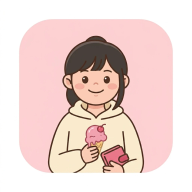
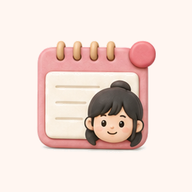
fix: 아이폰 홈 화면과 PWA에 3D 혜니 아이콘을 적용한다

diff --git a/vite.config.ts b/vite.config.ts
@@ -69,7 +69,7 @@ export default defineConfig({
       filename: "sw.ts",
       // 새 Worker는 받되 결제·원격청취·미저장 편집이 끝난 뒤에만 활성화한다.
       registerType: "prompt",
-      includeAssets: ["apple-touch-icon.png", "favicon-32x32.png", "assets/logo.webp"],
+      includeAssets: ["apple-touch-icon-hyeni-3d.png", "apple-touch-icon.png", "favicon-32x32.png", "assets/logo.webp"],
       manifest: {
         name: "혜니캘린더 - 우리아이 일정&안전 한번에",
         short_name: "혜니캘린더",
@@ -105,6 +105,7 @@ export default defineConfig({
           // 아래 파일은 includeAssets/manifest 아이콘 경로가 revision 포함 항목으로 따로 주입한다.
           // glob에서도 다시 수집하면 같은 URL이 두 revision으로 겹쳐 Service Worker 평가가 실패한다.
           "**/apple-touch-icon.png",
+          "**/apple-touch-icon-hyeni-3d.png",
           "**/favicon-32x32.png",
           "**/pwa-192x192.png",
           "**/pwa-512x512.png",

diff --git a/index.html b/index.html
@@ -24,7 +24,7 @@
     <meta name="mobile-web-app-capable" content="yes" />
     <meta name="apple-mobile-web-app-status-bar-style" content="default" />
     <meta name="apple-mobile-web-app-title" content="혜니캘린더 - 우리아이 일정&amp;안전 한번에" />
-    <link rel="apple-touch-icon" href="./apple-touch-icon.png" />
+    <link rel="apple-touch-icon" sizes="180x180" href="./apple-touch-icon-hyeni-3d.png" />
     <link rel="icon" type="image/png" sizes="32x32" href="./favicon-32x32.png" />
     <link rel="icon" href="./favicon-32x32.png" />
     <link rel="preload" as="image" href="/assets/mascot/wave.webp" type="image/webp" fetchpriority="high" />

diff --git a/docs/engineering/operations.md b/docs/engineering/operations.md
@@ -251,3 +251,14 @@
 
 운영 웹을 배포하기 전에 최신 `origin/main`이 현재 소스에 포함됐는지 확인한다. 지도 기능이 없는 과거 작업 폴더에서 UI 파일 하나만 고쳐 배포하면 Google 지도·국가·시간대 기능 전체가 함께 빠진다.
 `npm run deploy:pages`는 원격 main 선조 검사 → 새 build → `verify:pages-maps` → `.env` 없는 임시 폴더의 Wrangler 순서다. 로컬 build 성공만으로 배포 가능하다고 보지 않는다. 상세 증거는 [해외 지도 점검 보고서](../reports/2026-09-20-google-maps-audit.md)에 있다.
+
+## iPhone 홈 화면 3D 아이콘 (2026-09-20)
+
+설치 아이콘 정본은 기존 3D 혜니·달력 디자인 `output/play-store-final-v1/play-icon-512.png`다.
+`node scripts/generate-home-screen-icons.mjs`로 iPhone 180px·PWA 192/512px PNG를 재생성한다.
+HTML은 캐시 갱신을 위한 `apple-touch-icon-hyeni-3d.png`와 `sizes="180x180"`을 지정하고,
+기본 탐색용 `apple-touch-icon.png`도 같은 그림을 유지한다. 새 주소는 includeAssets와 globIgnores에
+함께 등록해 precache URL 중복을 막는다. PWA any/maskable은 안전 여백이 있는 같은 정본을 쓴다.
+기존 홈 화면 아이콘이 그대로면 Safari에서 사이트를 다시 열어 홈 화면에 새로 추가해 확인한다.
+앱 데이터·사이트 데이터 삭제를 해결책으로 안내하지 않는다. 실제 iPhone 설치 검증은 별도다.
+규격 참고: [Apple Web Clip 아이콘 안내](https://developer.apple.com/library/archive/documentation/AppleApplications/Reference/SafariWebContent/ConfiguringWebApplications/ConfiguringWebApplications.html).
